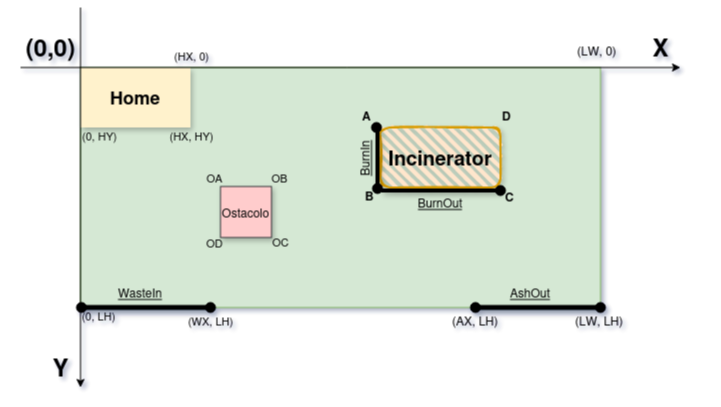
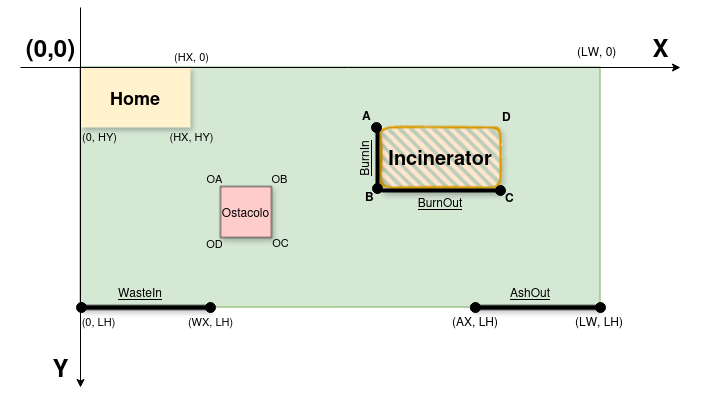
corretto sprint

Changed region(s): [[0.031, 0.0303, 0.9606, 0.9697], [0.4958, 0.2727, 0.7437, 0.5455], [0.2789, 0.4242, 0.4028, 0.6364]]

diff --git a/sprint0/userDocs/Doc_Sprint0.html b/sprint0/userDocs/Doc_Sprint0.html
@@ -347,6 +347,10 @@
 			<ul>
 				<li>
 					Service Area: Area rettangolare delimitato da bordi con vertici in (0, 0) (LW, 0) (0, LH) (LW,LH)
+					<ul>
+						<li> Dove A,B, C,D,OA,OB,OC,OD sono dei punti. </li>
+						<li> LH, LW, AX, HX, HY sono quote</li>
+					</ul>
 				</li>
 				<li> WasteIn: segmento in (0, LH), (WX, LH) </li>
 				<li> AshOut: segmento in (AX, LH), (LW, LH)</li>
@@ -355,13 +359,38 @@
 				<li> BurnIn: segmento con vertici in A,B </li>
 				<li> BurnOut: segmento con vertici in B,C </li>
 				<li> Ostacolo: area non percorribile in OA, OB, OC, OD
-					<ul>
-						<li> Dove A,B, C,D,OA,OB,OC,OD sono dei punti. </li>
-					</ul>
 				</li>
 			</ul>
+			<img src="./img/mappaISS.png" alt="Map">
 			<h3>Modello Strutturale e Comportamentale:</h3>
 			<ul>
+				<li>
+				<li>
+					<b>DDR Robot:</b> <br>
+					<ul>
+						<li>Il committente ha specificato che il software di controllo e' BasicRobot24</li>
+						<!-- <li>Riceve messaggi con coordinate</li> -->
+					</ul>
+				</li>
+				<li>
+					<b>BasicRobot24:</b> <br>
+					<ul>
+						<li>Riceve messaggi con coordinate</li>
+						<li>Muove il robot fisico o virtuale</li>
+					</ul>
+				</li>
+				<b>OpRobot</b>
+				<ul>
+					<li>DDR robot che agisce come attuatore fisico.
+					</li>
+					<li>Può spostarsi tra diverse posizioni (HOME, WASTEIN, BURNIN, BURNOUT, ASHOUT).</li>
+					<li>Carica da WASTEIN gli RP e Scarica in BURNIN </li>
+					<li>Torna in HOME quando inceneritore è in fase di burn</li>
+					<li>Carica da BURNout e scarica in ASHOUT</li>
+					<li>Controllato da WIS</li>
+					<li>Controlla il DDR Robot --> Invia istruzioni al BasicRobot24</li>
+				</ul>
+				</li>
 				<li>
 					<b>Inceneritore:</b> <br>
 					<ul>
@@ -370,39 +399,6 @@
 						<li>Brucia un RP alla volta in BTIME secondi.</li>
 						<li>Invia un segnale acustico alla fine del processo di incenerimento.</li>
 						<li>Le ceneri sono estratte attraverso il BURNOUT port. </li>
-					</ul>
-				</li>
-				<li>
-					<b>MonitoringDevice:</b> <br>
-					<ul>
-						<li>Raggiunge le posizioni delle porte WASTEIN, BURNIN, BURNOUT, ASHOUT e HOME.</li>
-						<li>Carica gli RP dal WASTEIN e li scarica in BURNIN.</li>
-						<li>Torna a HOME durante la fase di bruciatura dell'inceneritore e quando non c'e` lavoro da
-							fare.</li>
-						<li>Carica le ceneri da BURNOUT e le scarica in ASHOUT.</li>
-					</ul>
-				</li>
-				<li>
-					<b>WasteStorage</b>
-					<ul>
-						<li>Misura il peso totale dei rifiuti presenti nel Waste Storage attraverso il weighing device
-							(scale).</li>
-						<li>Dotato di un dispositivo di pesatura (Scale) per misurare il peso totale dei RP.</li>
-						<li>Fornisce informazione sul peso degli RP attualmente contenuti in Waste Storage. </li>
-
-					</ul>
-				</li>
-				<li>
-					<b>OpRobot</b>
-					<ul>
-						<li>DDR robot che agisce come attuatore fisico.
-						</li>
-						<li>Può spostarsi tra diverse posizioni (HOME, WASTEIN, BURNIN, BURNOUT, ASHOUT).</li>
-						<li>Carica da WASTEIN gli RP e Scarica in BURNIN </li>
-						<li>Torna in HOME quando inceneritore è in fase di burn</li>
-						<li>Carica da BURNout e scarica in ASHOUT</li>
-						<li>Controllato da WIS</li>
-						<li>Controlla il DDR Robot</li>
 					</ul>
 				</li>
 				<li>
@@ -419,52 +415,56 @@
 							</ul>
 						</li>
 						<li>
+							Ha una Gui al suo interno per visualizzare lo stato del sistema.
+						</li>
+						<li>
 							Indirizza il robot.
 						</li>
 					</ul>
+
+				<li>
+					<b>Scale/Bilancia</b>
+					<ul>
+						<li>Misura il peso totale dei rifiuti presenti nel Waste Storage.</li>
+						<li>Fornisce informazione sul peso degli RP attualmente contenuti in Waste Storage.</li>
+						<li>E' un entita' passiva, Interfaccia che espone i seguenti metodi:
+							<ul>
+								<li> GetValue(): restituisce il peso attuale.</li>
+								<li> GetRpNumber(): restituisce il numero di RP.</li>
+							</ul>
+						</li>
+					</ul>
+				</li>
+				<li>
+					<b>Sonar</b>
+					<ul>
+						<li>Misura il livello delle ceneri nel AshStorage.</li>
+						<li>E' un entita' passiva, Interfaccia che espone i seguenti metodi:
+							<ul>
+								<li> GetDistance(): restituisce la distanza misurata.</li>
+							</ul>
+						</li>
+					</ul>
+				</li>
+				<li>
+					<b>MonitoringDevice:</b> <br>
+					<ul>
+						<li>Controlla il Led</li>
+						<li>Controlla il Sonar</li>
+						<li>E' implementato dal Raspberry</li>
+					</ul>
+				</li>
 				</li>
 			</ul>
 			<div style="text-align:center;">
 				<img src="./img/ModelloEntita.png" alt="ModelloEntita" width="30%" height="30%">
 			</div>
-			<h3>Modello delle Interazioni:</h3>
-			<ol>
-				<li>WIS -> OpRobot:<br>
-					<strong>Command:</strong> Invia comando al OpRobot per l’inizio della routine di combustione.
-				</li>
-				<li>Incinerator -> WIS, OpRobot:<br>
-					<strong>Status Signal:</strong> Invia messaggi di status al WIS (aggiornamento facade e
-					MonitoringDevice) e al robot (deve scaricare ceneri)
-				</li>
-				<li>WIS -> Incinerator:<br>
-					<strong>Activation Command:</strong> Invia comandi di attivazione all'Incinerator per iniziare il
-					processo di bruciatura.
-				</li>
-				<li>MonitoringDevice -> WIS:<br>
-					<strong>Sonar Data:</strong> Invia i dati del Sonar per determinare il livello delle ceneri
-					nell'AshStorage.
-				</li>
-				<li>WIS -> MonitoringDevice:<br>
-					<strong>LED Status Command:</strong> Invia comandi al MonitoringDevice per attivare/disattivare il
-					LED per segnalare lo stato dell'Incinerator.
-				</li>
-				<li>WIS -> ServiceStatusGUI (SSGUI):<br>
-					<strong>Update GUI:</strong> Invia aggiornamenti dello stato del WasteStorage, AshStorage,
-					Incinerator e OpRobot per la visualizzazione sulla SSGUI.
-				</li>
-				<li>OpRobot -> ServiceStatusGUI (SSGUI):<br>
-					<strong>Update GUI:</strong> Invia aggiornamenti dello stato dell’OpRobot, per la visualizzazione
-					sulla SSGUI.
-				</li>
-				<li>WasteStorage -> WIS<br>
-					<strong>Scale Data:</strong> Invia aggiornamenti degli RP da bruciare
-				</li>
-			</ol>
-			<h3>Modello Architettura dai Requisiti</h3>
+			?
+			<!-- <h3>Modello Architettura dai Requisiti</h3>
 			<div style="text-align:center;">
 				<img src="./img/ModelloRequisiti.png" alt="ModelloRequisiti" width="60%" height="60%">
-			</div>
-			<h3>Esempio Diagramma di Sequenza:</h3>
+			</div> -->
+			<!-- <h3>Esempio Diagramma di Sequenza:</h3>
 			<ol>
 				<li><strong>WIS</strong> legge il peso totale dei RP nel <strong>Scale WasteStorage</strong>.</li>
 				<li><strong>Sonar</strong> invia la distanza misurata nel <strong>AshStorage</strong> a
@@ -482,20 +482,20 @@
 				<li><strong>OpRobot</strong> raccoglie le ceneri dal <strong>BURNOUT port</strong> e le deposita
 					nell'<strong>AshStorage</strong>.</li>
 				<li><strong>WIS</strong> aggiorna lo stato del sistema sulla <strong>SSGUI</strong>.</li>
-			</ol>
-			<h3>Architettura del modello simulato:</h3>
+			</ol> -->
+			<!-- <h3>Architettura del modello simulato:</h3>
 			<!-- Immagine messa al centro-->
 			<div style="text-align:center;">
 				<img src="./img/ModelloSimulato.png" alt="ModelloSimulato" width="60%" height="60%">
-			</div>
-			
+			</div> -->
+
 		</div>
 
 	</div>
 
 	<!-- <h2>Problem analysis</h2> -->
 	<h2>Test plans</h2>
-	<ol>
+	<!-- <ol>
 		<li>
 			<strong>Monitoring Device</strong>
 			<ul>
@@ -556,31 +556,29 @@
 				</li>
 			</ul>
 		</li>
-	</ol>
+	</ol> -->
+	Test Funzionali:
+	<li>
+		<strong>Test Case:</strong><br>
+		<ol>
+			<li>Contenitori Scarichi</li>
+			<li>Incenirator si accende</li>
+			<li>Viene caricato RP in WasteStorage</li>
+			<li>Fine Esecuzione AshStorage non e' vuoto</li>
+			<li></li>
+		</ol>
+		<strong>Aspettativa:</strong> WasteStorage e' vuoto, Ash Storage e' stato riempito, il robot ha effettuato il
+		percorso.
+	</li>
 	<h2>Domande per il committente</h2>
-	<li>
-		Sonar e scale sono forniti?
-	</li>
-	<li>
-		Quali sono i valori del sonar da interpretare come totalmente vuoto o pieno? (sonar capisce che e’ vuoto
-		totalmente, e’ un messaggio esterno, oppure appena sotto DLIMIT considerato vuoto?)
-	</li>
-	<li>
-		Quanto e` “approssimamente 0” nella bilancia?
-	</li>
-	<li>
-		L’inceneritore emana un segnale percepibile da OpRobot e WIS. A che serve farlo ricevere ad OpRobot se e`
-		controllato da WIS? (specifica iniziale: requires a software system service (WIS) that controls a robot (called
-		OpRobot))
-	</li>
-	<li>
-		Cosa accadrebbe se l’inceneritore venisse acceso senza RP?
-	</li>
-	<li>
-		Dobbiamo gestire la casistica per cui l’inceneritore potrebbe essere gia` pieno e oprobot NON puo` caricare RP,
-		oppure l’inceneritore ha ash e non puo` essere acceso fino a quando non e` scaricato?
-	</li>
-
+	<ul>
+		<li>
+			L’inceneritore emana un segnale percepibile da OpRobot e WIS. A che serve farlo ricevere ad OpRobot se e`
+			controllato da WIS? (specifica iniziale: requires a software system service (WIS) that controls a robot
+			(called
+			OpRobot))
+		</li>
+	</ul>
 
 
 
@@ -612,11 +610,14 @@
 
 	<div style="background-color:rgba(86, 56, 253, 0.9); width:60%;text-align:left;color:white">
 		<div>By Andrea Raffaelli email: andrea.raffaelli2@studio.unibo.it
-			<img src="./img/araffaelli.jpg" alt="cyberandrea" width="15%" height="15%"></div> <br>
-			<div>By Edoardo De Divitiis email: edoardo.dedivitiis@studio.unibo.it
-			<img src="./img/edoardoFoto.jpg" alt="mbot" width="15%" height="15%"></div> <br>
-			<div>By Davide Moricoli email: davide.moricoli@studio.unibo.it
-			<img src="./img/davideFoto.jpeg" alt="mbot" width="15%" height="15%"></div> <br>
+			<img src="./img/araffaelli.jpg" alt="cyberandrea" width="15%" height="15%">
+		</div> <br>
+		<div>By Edoardo De Divitiis email: edoardo.dedivitiis@studio.unibo.it
+			<img src="./img/edoardoFoto.jpg" alt="mbot" width="15%" height="15%">
+		</div> <br>
+		<div>By Davide Moricoli email: davide.moricoli@studio.unibo.it
+			<img src="./img/davideFoto.jpeg" alt="mbot" width="15%" height="15%">
+		</div> <br>
 		GIT repo: https://github.com/AndreaRaffaelli/TemaFinale2024_ISS <br>
 	</div>
 </body>
